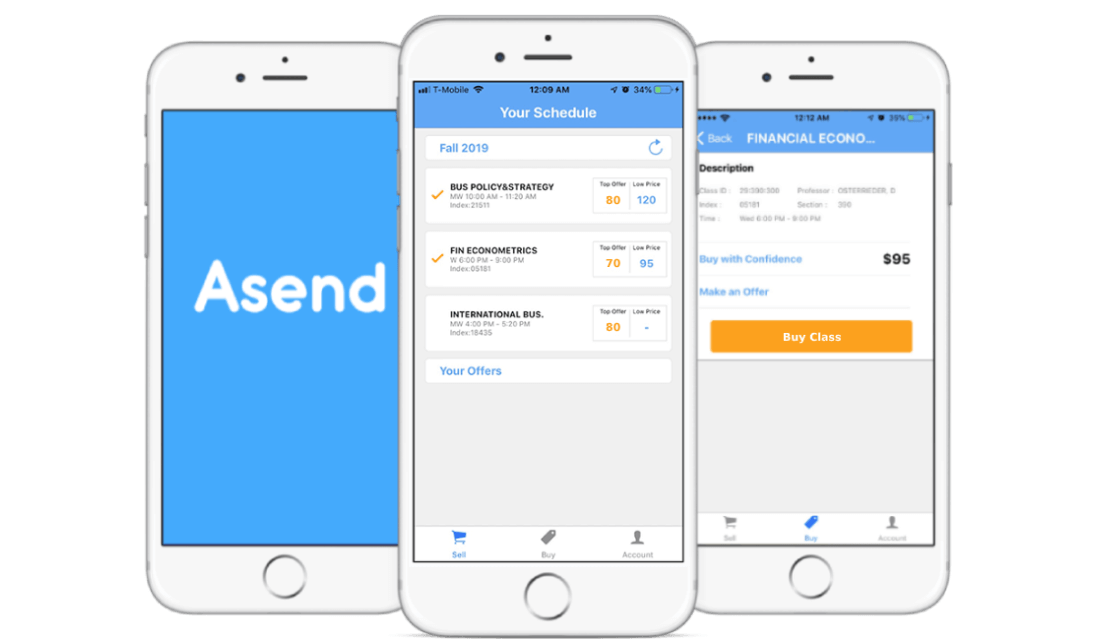
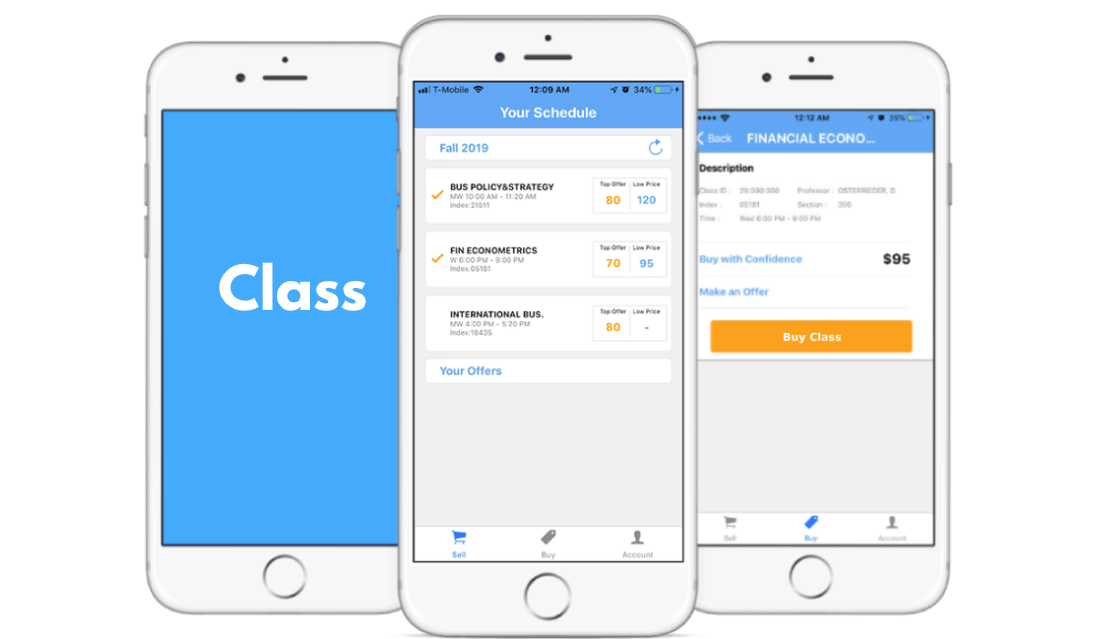
Updating Img

Changed region(s): [[0.1551, 0.3865, 0.3723, 0.5055]]

diff --git a/src/Projects.js b/src/Projects.js
@@ -64,11 +64,11 @@ const Projects = () => {
               </a>
           </div>
           <div className="ProjectDesc">
-            <h1>Asend App</h1>
+            <h1>Class App</h1>
             <div className="TextBox">
               <p>
               A production-ready App built in React Native that allowed users to 
-              buy and sell closed college classes from one another. AWS was used 
+              view open and closed college classes. AWS was used 
               to handle the user authentication, NoSQL database, and backend functions. 
               Puppeteer a web scraper was used to automate the transfer of classes.  
               </p>
